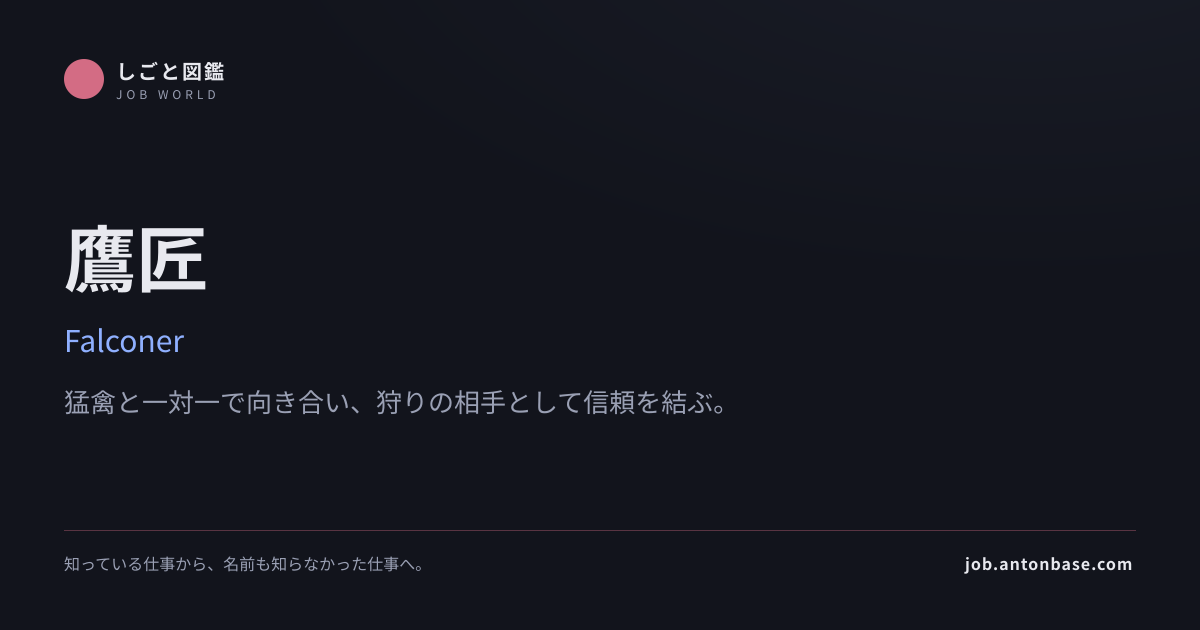
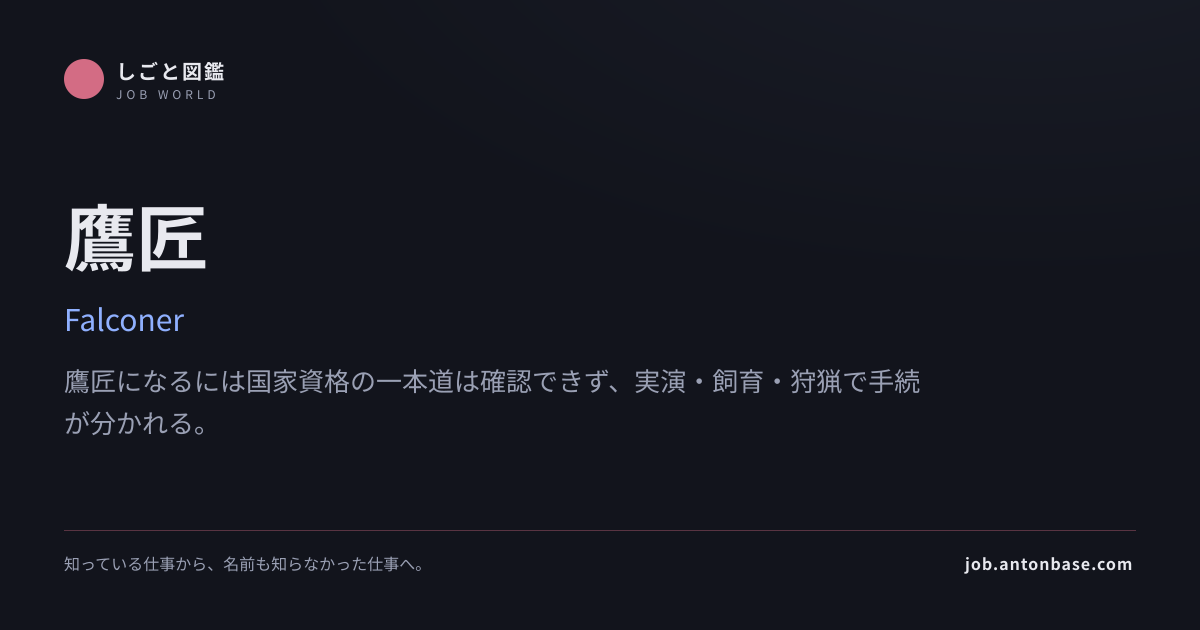
[SEO] 動物園飼育員レコードを仕事内容・1日・採用経路の一次情報ガイドへ改修 (#17)
* [CF-Pages-Skip] revise zookeeper record into sourced duties and hiring guide

Remove unsourced salary and national competition claims. Keep the day and hiring path scoped to primary sources.

* [CF-Pages-Skip] refresh generated stats date and clear falconer length gate

CI verify failed because data:build rewrote generatedAt. Trim pre-existing falconer summary/description to validator limits and refresh the affected OG images so the same verify job can pass.

* [CF-Pages-Skip] commit CI-stable letterpress OG image

og:check failed because regenerating public/og/letterpress-printer.png
produced blob 12efe47, while the branch still had ab12fb5. Commit the
stable regenerated image so verify matches GitHub Actions.

* [CF-Pages-Skip] pin generated stats date to source records

CI verify failed because data:build rewrote generatedAt to the UTC day.
Derive it from the newest job updatedAt so regeneration stays deterministic.

---------

Changed region(s): [[0.0308, 0.3016, 0.7708, 0.6937]]

diff --git a/scripts/build-data.ts b/scripts/build-data.ts
@@ -430,7 +430,12 @@ writeJson(join(GENERATED_DIR, "stats.json"), {
     ]),
   ),
   typedEdgeCount: jobList.reduce((a, j) => a + (j.edges?.length ?? 0), 0),
-  generatedAt: new Date().toISOString().slice(0, 10),
+  // Wall-clock dates fail the CI drift check on the next UTC day. Use the
+  // newest source record date so regeneration is deterministic.
+  generatedAt: jobList.reduce((latest, j) => {
+    const value = (j.updatedAt ?? "").slice(0, 10);
+    return value > latest ? value : latest;
+  }, "1970-01-01"),
 });
 
 // ---------------------------------------------------------------------------
